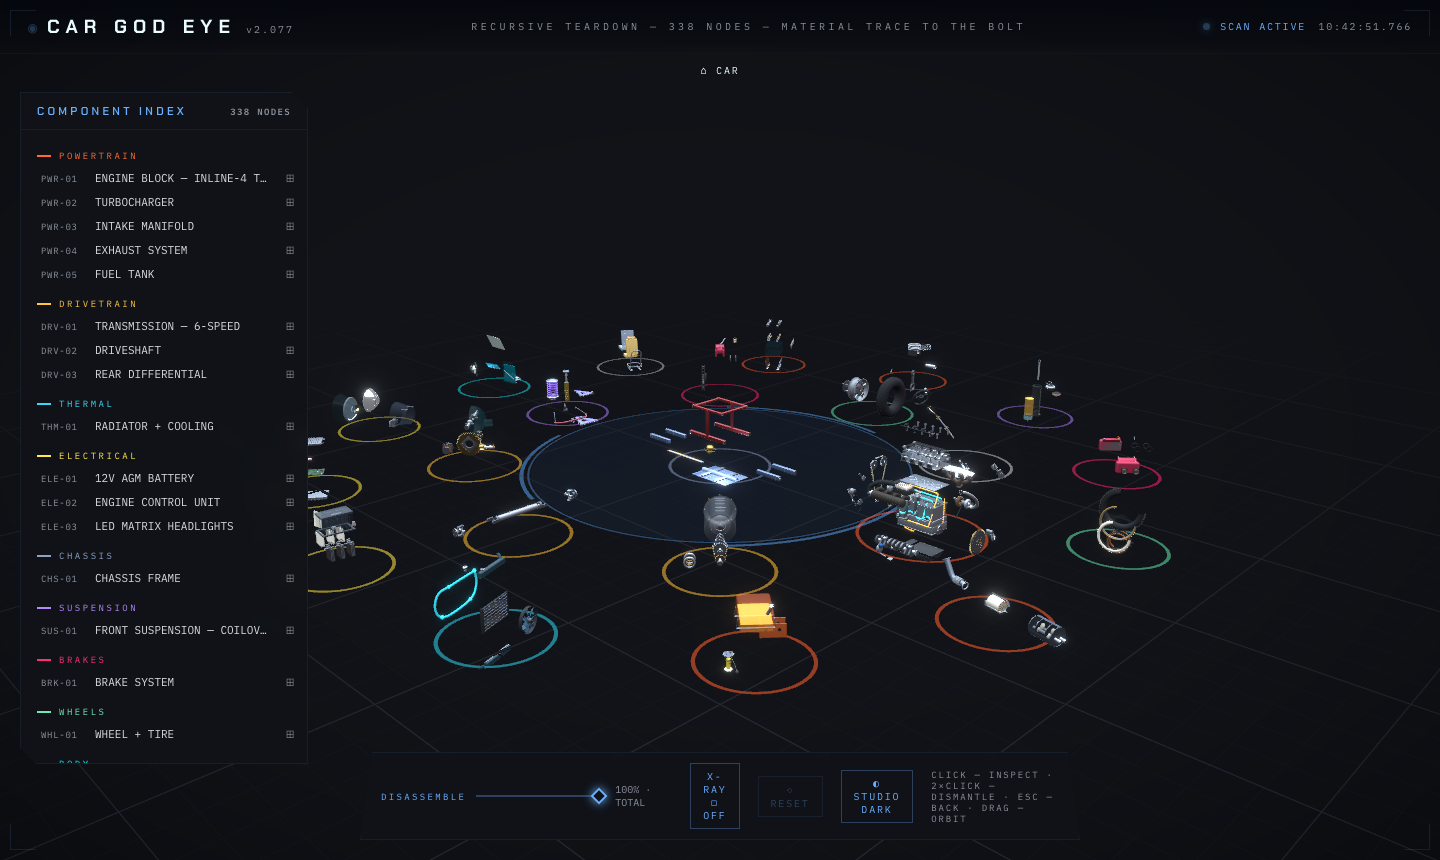
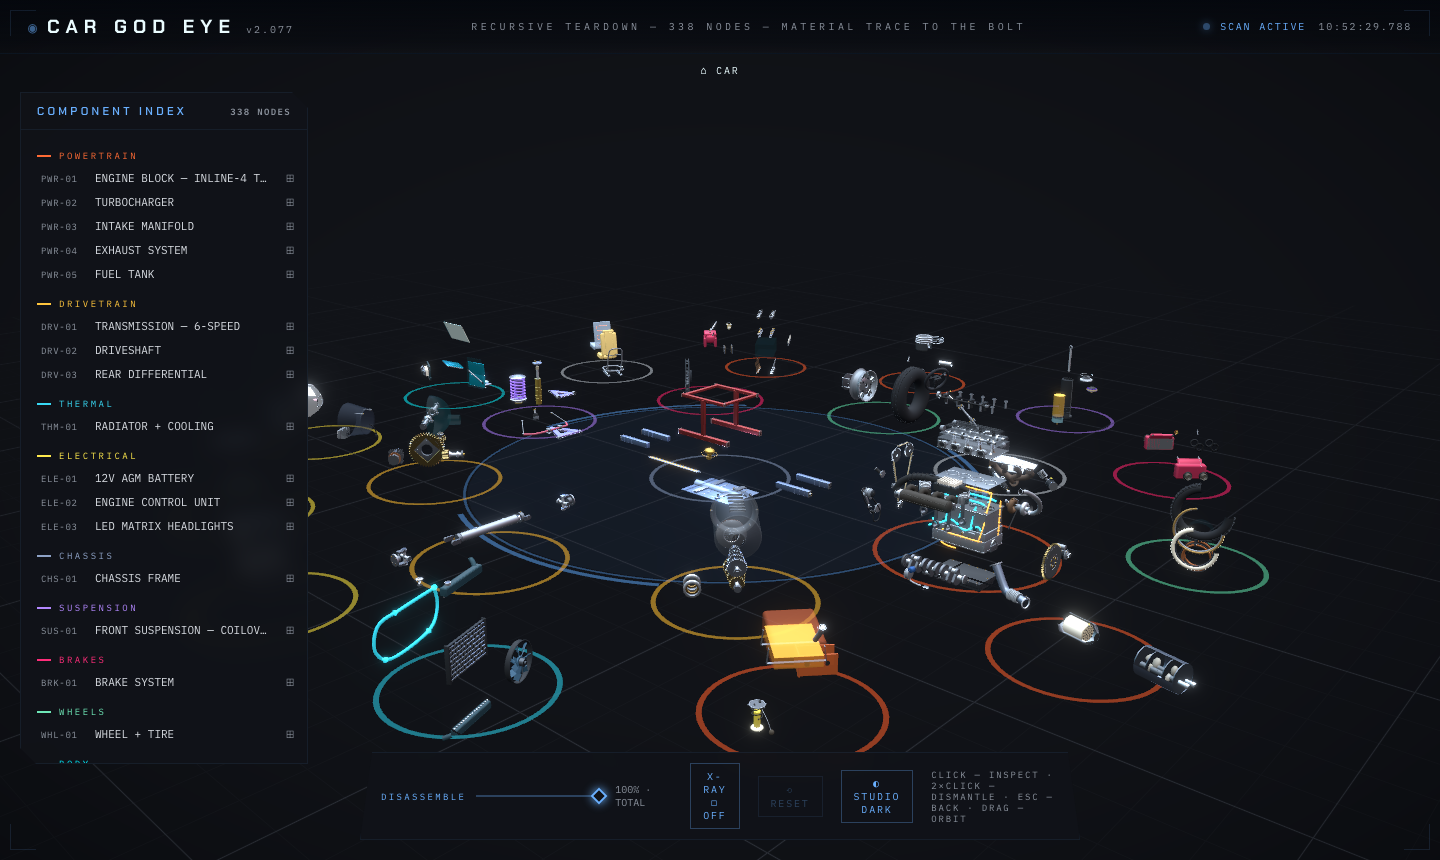
Teardown field: tidy at 50%, exploding toward 100% — nothing flies away
The root slider now tells one continuous story: 0-50% separates the
assembled car's systems; at 50% the field appears with every station
ASSEMBLED in its ring (museum knolling); 50-100% remaps to each station's
internal explosion, so parts separate in place instead of starting
scattered. Tighter rings, closer far camera, pop-in transition.

Changed region(s): [[0.1875, 0.3628, 0.875, 0.8767], [0.2812, 0.8163, 0.375, 0.8767], [0.5938, 0.786, 0.625, 0.8767]]

diff --git a/src/scene/TeardownField.tsx b/src/scene/TeardownField.tsx
@@ -74,24 +74,24 @@ const STATIONS: Station[] = [
     key: 'chassis',
     Comp: ChassisViewReal,
     pos: [0, 0, 0],
-    scale: 0.5,
+    scale: 0.52,
     rotY: 0,
     system: 'chassis',
   },
   // inner ring — the drivetrain story
   ...ring(
     [
-      { key: 'engine', Comp: EngineView, system: 'powertrain', scale: 0.55 },
-      { key: 'transmission', Comp: TransmissionViewReal, system: 'drivetrain' },
-      { key: 'driveshaft', Comp: DriveshaftViewReal, system: 'drivetrain' },
-      { key: 'differential', Comp: DifferentialViewReal, system: 'drivetrain' },
-      { key: 'suspension', Comp: SuspensionViewReal, system: 'suspension' },
-      { key: 'brakes', Comp: BrakesViewReal, system: 'brakes' },
-      { key: 'wheels', Comp: WheelsViewReal, system: 'wheels' },
-      { key: 'steering', Comp: SteeringViewReal, system: 'interior' },
+      { key: 'engine', Comp: EngineView, system: 'powertrain', scale: 0.58 },
+      { key: 'transmission', Comp: TransmissionViewReal, system: 'drivetrain', scale: 0.48 },
+      { key: 'driveshaft', Comp: DriveshaftViewReal, system: 'drivetrain', scale: 0.48 },
+      { key: 'differential', Comp: DifferentialViewReal, system: 'drivetrain', scale: 0.48 },
+      { key: 'suspension', Comp: SuspensionViewReal, system: 'suspension', scale: 0.48 },
+      { key: 'brakes', Comp: BrakesViewReal, system: 'brakes', scale: 0.48 },
+      { key: 'wheels', Comp: WheelsViewReal, system: 'wheels', scale: 0.48 },
+      { key: 'steering', Comp: SteeringViewReal, system: 'interior', scale: 0.48 },
     ],
-    3.9,
-    0.45,
+    3.4,
+    0.48,
   ),
   // outer ring — systems and the deep dives (valves, cams, rods, rings…)
   ...ring(
@@ -110,8 +110,8 @@ const STATIONS: Station[] = [
       { key: 'caliper', Comp: CaliperViewReal, system: 'brakes', scale: 0.4 },
       { key: 'tire', Comp: TireViewReal, system: 'wheels', scale: 0.4 },
     ],
-    6.2,
-    0.42,
+    5.4,
+    0.45,
     Math.PI / 13,
   ),
 ]

diff --git a/src/scene/CarScene.tsx b/src/scene/CarScene.tsx
@@ -26,7 +26,7 @@ type Want = { kind: 'node'; id: string } | { kind: 'home'; view: string } | null
 const box = new THREE.Box3()
 const sphere = new THREE.Sphere()
 
-const FAR_HOME = { cam: [12.5, 6.5, 12.5] as const, tgt: [0, 0.6, 0] as const }
+const FAR_HOME = { cam: [9.5, 4.8, 9.5] as const, tgt: [0, 0.6, 0] as const }
 
 function CameraRig() {
   const { selectedId, path, explode } = useGodEye()
@@ -169,11 +169,13 @@ function LevelIn({ children, id }: { children: ReactNode; id: string }) {
 }
 
 function AssemblyHost() {
-  const { path } = useGodEye()
+  const { path, explode } = useGodEye()
   const { id, def } = viewFor(path)
   const View = def.Comp
+  // separate key for the teardown field so entering it gets the pop-in
+  const key = id === 'car' && explode >= 0.5 ? 'car-field' : id
   return (
-    <LevelIn key={id} id={id}>
+    <LevelIn key={key} id={key}>
       <View />
     </LevelIn>
   )

diff --git a/src/scene/lib.tsx b/src/scene/lib.tsx
@@ -105,7 +105,18 @@ export function PartGroup({
   renderOrder,
 }: PartGroupProps) {
   const ref = useRef<THREE.Group>(null!)
-  const { selectedId, hoverId, select, setHover, setPath, explode: k0 } = useGodEye()
+  const {
+    selectedId,
+    hoverId,
+    select,
+    setHover,
+    setPath,
+    path,
+    explode: slider,
+  } = useGodEye()
+  // in the root teardown field (slider ≥ 0.5 at car level) the stations start
+  // ASSEMBLED at 50% and explode internally toward 100%
+  const k0 = path.length === 0 && slider >= 0.5 ? (slider - 0.5) * 2 : slider
 
   useEffect(() => {
     groupRegistry.set(id, ref.current)
